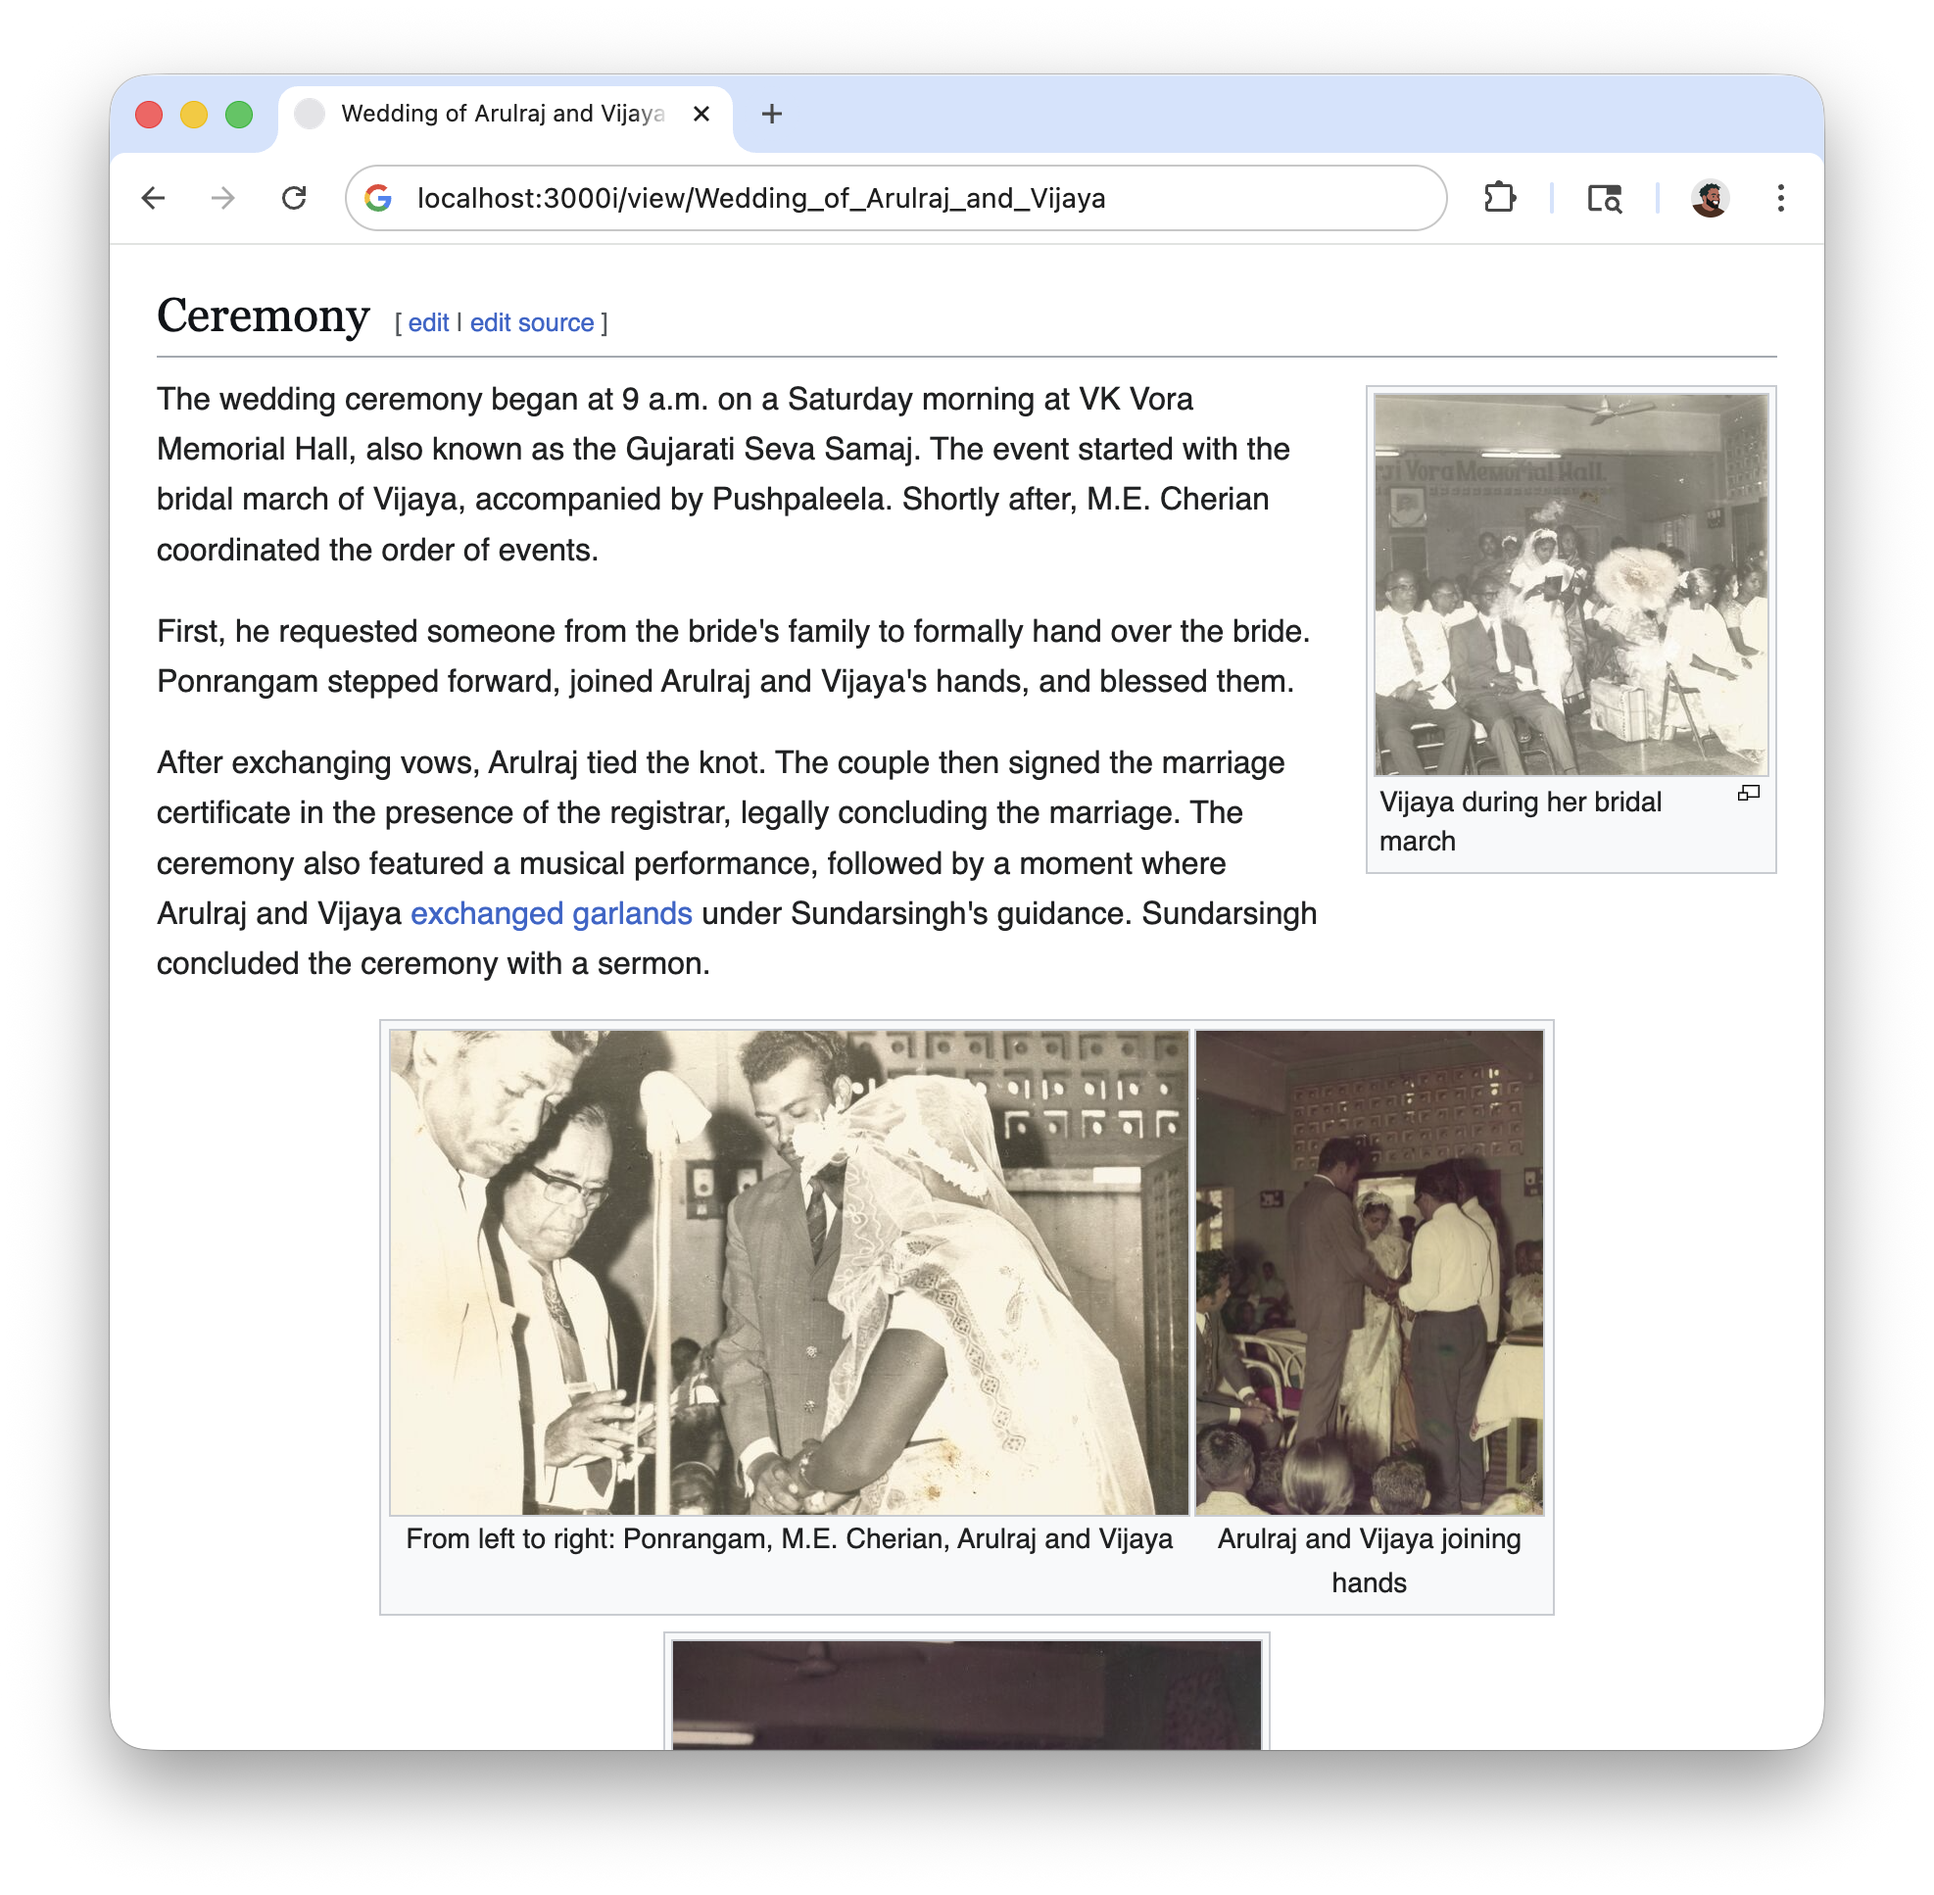
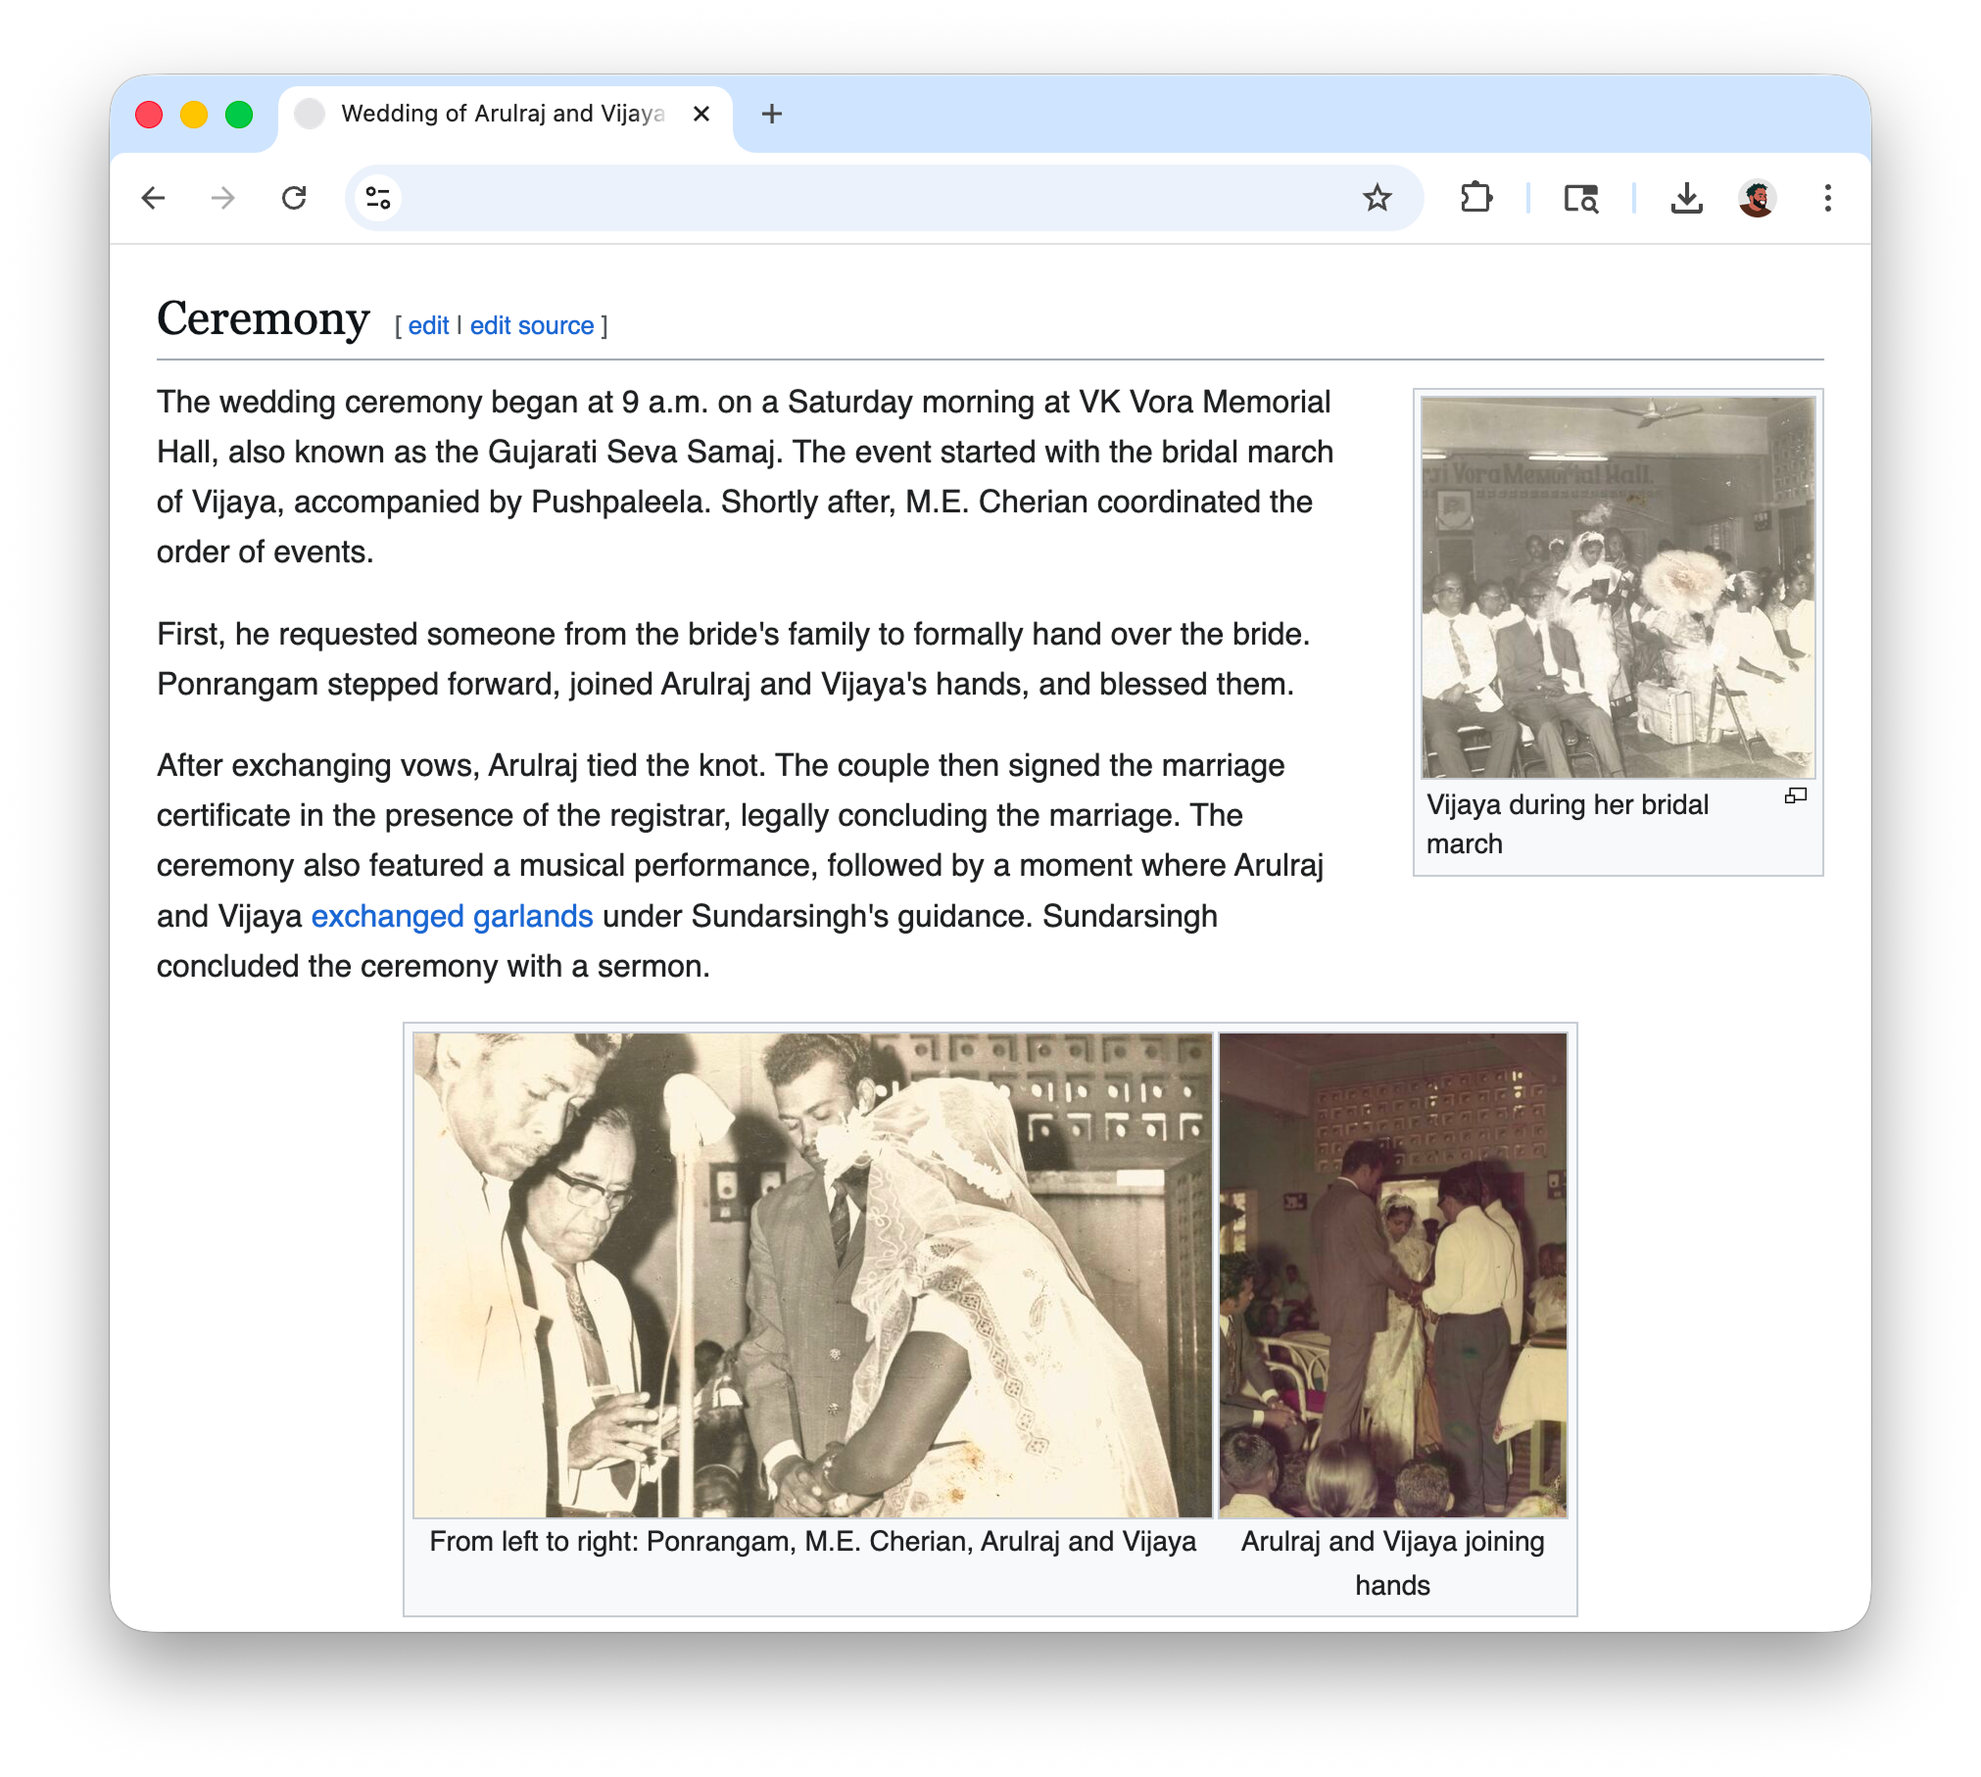
feat: update blog post

Changed region(s): [[0.0618, 0.1544, 0.9271, 0.9261], [0.6798, 0.1852, 0.9271, 0.4939], [0.0618, 0.0309, 0.958, 0.1235]]

diff --git a/web/components/mdx-content.tsx b/web/components/mdx-content.tsx
@@ -84,6 +84,23 @@ const mdxComponents = {
       <img src={dark} alt={alt} className="hidden dark:block w-full" />
     </>
   ),
+  SideBySide: ({ children }: { children?: ReactNode }) => (
+    <div className="w-screen relative left-1/2 -translate-x-1/2 md:w-[min(960px,90vw)] px-4 md:px-0 grid grid-cols-1 md:grid-cols-2 gap-4">{children}</div>
+  ),
+  WideImage: ({
+    light,
+    dark,
+    alt = "",
+  }: {
+    light: string;
+    dark: string;
+    alt?: string;
+  }) => (
+    <div className="w-screen relative left-1/2 -translate-x-1/2 md:w-[min(960px,90vw)] px-4 md:px-0">
+      <img src={light} alt={alt} className="w-full rounded-xl dark:hidden" />
+      <img src={dark} alt={alt} className="hidden dark:block w-full rounded-xl" />
+    </div>
+  ),
 };
 
 export function MDXContent({
